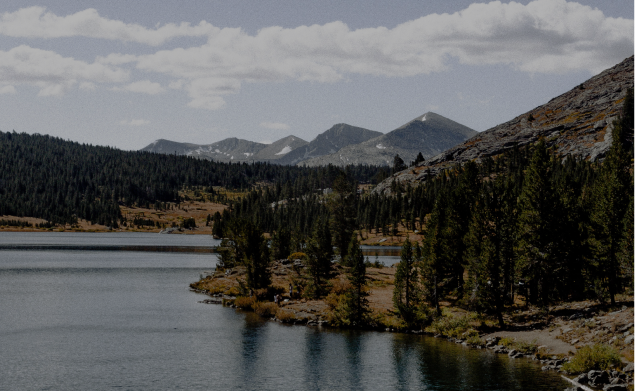
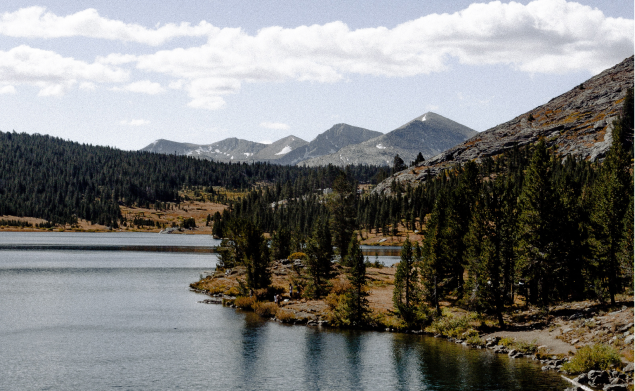
Add overlay all images

diff --git a/index.html b/index.html
@@ -126,7 +126,8 @@
                 </div>
                 <div class="section-2__right">
                     <div class="section-2__right-inner">
-                        <p>We provide cars for any obstacle you want to face, from arid deserts to icy mountains. We are ready to prepare the best for you</p>
+                        <p>We provide cars for any obstacle you want to face, from arid deserts to icy mountains. We are
+                            ready to prepare the best for you</p>
                     </div>
                 </div>
             </div>
@@ -137,13 +138,15 @@
             <div class="section-3__row">
                 <div class="section-3__left">
                     <div class="section-3__left-inner">
+                        <div class="section-3__left-overlay"></div>
                         <img src="./assets/img/section-3.png" alt="">
                     </div>
                 </div>
                 <div class="section-3__right">
                     <div class="section-3__right-inner">
                         <h3>With the right vehicle you can explore and achieve your freedom where you want</h3>
-                        <p>We provide Offroad car to rent. If you want to explore the world, get lost in nature, ride deep into the desert or just want to drive like a maniac then our off-</p>
+                        <p>We provide Offroad car to rent. If you want to explore the world, get lost in nature,
+                            ride deep into the desert or just want to drive like a maniac then our off-</p>
                     </div>
                 </div>
             </div>
@@ -156,11 +159,13 @@
                     <div class="section-4__left-inner">
                         <h3>dashing, tough and reliable is their forte</h3>
                         <p>driving a 4x4 car in the beautiful roads
-                            Offroad rental is an exciting experience and an opportunity to drive a 4x4 car in the beautiful roads of Turkey.</p>
+                            Offroad rental is an exciting experience and an opportunity to drive a 4x4 car in the
+                            beautiful roads of Turkey.</p>
                     </div>
                 </div>
                 <div class="section-4__right">
                     <div class="section-4__right-inner">
+                        <div class="section-4__right-overlay"></div>
                         <img src="./assets/img/section-4.png" alt="">
                     </div>
                 </div>
@@ -172,26 +177,32 @@
         <div class="section-5__container">
             <div class="swiper Section5Swiper">
                 <div class="swiper-wrapper">
-                  <div class="swiper-slide">
-                    <img src="./assets/img/section-5-1.png" alt="">
-                  </div>
-                  <div class="swiper-slide">
-                    <img src="./assets/img/section-5-2.png" alt="">
-                  </div>
-                  <div class="swiper-slide">
-                    <img src="./assets/img/section-5-3.png" alt="">
-                  </div>
-                  <div class="swiper-slide">
-                    <img src="./assets/img/section-5-1.png" alt="">
-                  </div>
-                  <div class="swiper-slide">
-                    <img src="./assets/img/section-5-2.png" alt="">
-                  </div>
-                  <div class="swiper-slide">
-                    <img src="./assets/img/section-5-3.png" alt="">
-                  </div>
+                    <div class="swiper-slide">
+                        <div class="swiper-slide-overlay"></div>
+                        <img src="./assets/img/section-5-1.png" alt="">
+                    </div>
+                    <div class="swiper-slide">
+                        <div class="swiper-slide-overlay"></div>
+                        <img src="./assets/img/section-5-2.png" alt="">
+                    </div>
+                    <div class="swiper-slide">
+                        <div class="swiper-slide-overlay"></div>
+                        <img src="./assets/img/section-5-3.png" alt="">
+                    </div>
+                    <div class="swiper-slide">
+                        <div class="swiper-slide-overlay"></div>
+                        <img src="./assets/img/section-5-1.png" alt="">
+                    </div>
+                    <div class="swiper-slide">
+                        <div class="swiper-slide-overlay"></div>
+                        <img src="./assets/img/section-5-2.png" alt="">
+                    </div>
+                    <div class="swiper-slide">
+                        <div class="swiper-slide-overlay"></div>
+                        <img src="./assets/img/section-5-3.png" alt="">
+                    </div>
                 </div>
-              </div>
+            </div>
         </div>
     </section>
     <script src="https://cdn.jsdelivr.net/npm/swiper@11/swiper-bundle.min.js"></script>

diff --git a/assets/css/style.css b/assets/css/style.css
@@ -286,6 +286,7 @@ body.toyota-page {
 }
 .section-3__left-inner {
   width: 100%;
+  position: relative;
 }
 .section-3__left-inner img {
   width: 100%;
@@ -293,6 +294,14 @@ body.toyota-page {
      object-fit: cover;
   -o-object-position: center;
      object-position: center;
+}
+.section-3__left-overlay {
+  width: 100%;
+  height: 100%;
+  position: absolute;
+  top: 0;
+  left: 0;
+  background-color: rgba(0, 0, 0, 0.25);
 }
 .section-3__right {
   max-width: 665px;
@@ -417,6 +426,7 @@ body.toyota-page {
 }
 .section-4__right-inner {
   width: 100%;
+  position: relative;
 }
 .section-4__right-inner img {
   width: 100%;
@@ -424,6 +434,14 @@ body.toyota-page {
      object-fit: cover;
   -o-object-position: center;
      object-position: center;
+}
+.section-4__right-overlay {
+  width: 100%;
+  height: 100%;
+  position: absolute;
+  top: 0;
+  left: 0;
+  background-color: rgba(0, 0, 0, 0.25);
 }
 
 .section-5 {
@@ -447,6 +465,7 @@ body.toyota-page {
   display: flex;
   justify-content: center;
   align-items: center;
+  position: relative;
 }
 @media only screen and (max-width: 768px) {
   .section-5__container .Section5Swiper.swiper .swiper-slide {
@@ -459,4 +478,12 @@ body.toyota-page {
   height: 100%;
   -o-object-fit: cover;
      object-fit: cover;
+}
+.section-5__container .Section5Swiper.swiper .swiper-slide-overlay {
+  width: 100%;
+  height: 100%;
+  position: absolute;
+  top: 0;
+  left: 0;
+  background-color: rgba(0, 0, 0, 0.25);
 }/*# sourceMappingURL=style.css.map */

diff --git a/assets/scss/layout/_section-5.scss b/assets/scss/layout/_section-5.scss
@@ -17,6 +17,7 @@
                     display: flex;
                     justify-content: center;
                     align-items: center;
+                    position: relative;
                     @include mq(tablet-portrait-up) {
                         height: 300px;
                     }
@@ -25,6 +26,14 @@
                         width: 100%;
                         height: 100%;
                         object-fit: cover;
+                    }
+                    &-overlay {
+                        width: 100%;
+                        height: 100%;
+                        position: absolute;
+                        top: 0;
+                        left: 0;
+                        background-color: rgba(0, 0, 0, 0.25);
                     }
                 }
             }

diff --git a/assets/scss/layout/_section-4.scss b/assets/scss/layout/_section-4.scss
@@ -55,6 +55,7 @@
     }
     &__right {
         max-width: 635px;
+        
         @include mq(desktop-up) {
             width: 45%;
         }
@@ -63,11 +64,20 @@
         }
         &-inner {
             width: 100%;
+            position: relative;
             img {
                 width: 100%;
                 object-fit: cover;
                 object-position: center;
             }
         }
+        &-overlay {
+            width: 100%;
+            height: 100%;
+            position: absolute;
+            top: 0;
+            left: 0;
+            background-color: rgba(0, 0, 0, 0.25);
+        } 
     }
 }

diff --git a/assets/scss/layout/_section-3.scss b/assets/scss/layout/_section-3.scss
@@ -28,11 +28,20 @@
         }
         &-inner {
             width: 100%;
+            position: relative;
             img {
                 width: 100%;
                 object-fit: cover;
                 object-position: center;
             }
+        }
+        &-overlay {
+            width: 100%;
+            height: 100%;
+            position: absolute;
+            top: 0;
+            left: 0;
+            background-color: rgba(0, 0, 0, 0.25);
         }
     }
     &__right {
